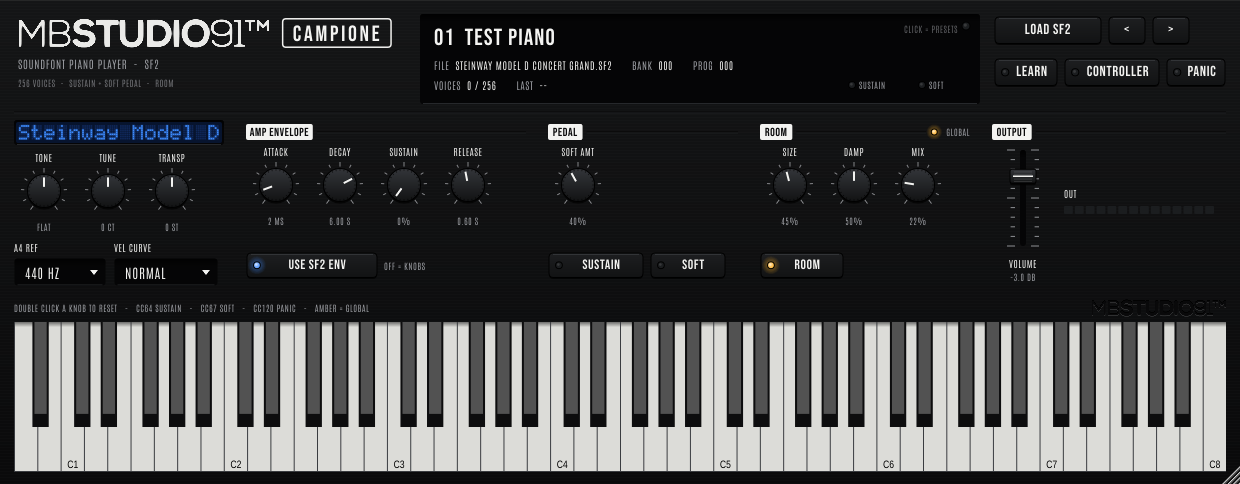
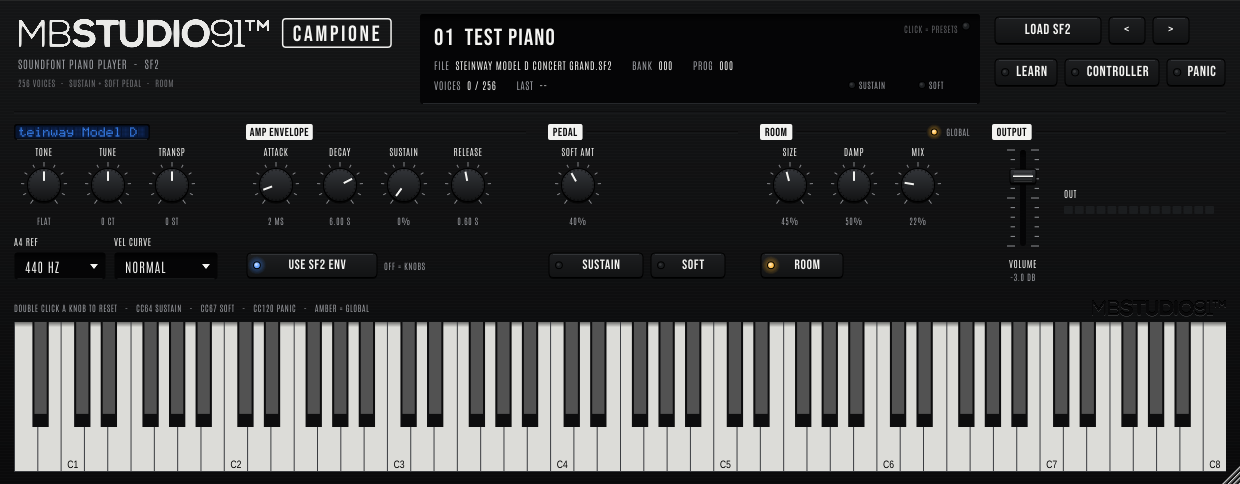
LCD alto come i titoli-chip: caratteri di 9 px come AMP ENVELOPE
- display 136 x 16 px allineato ai chip delle sezioni, passo dei punti 1,32 px
- i controlli del pianoforte tornano alla stessa riga delle altre sezioni

Claude-Session: https://claude.ai/code/session_01WmqijEuPBkdoT6P6tGhM7M

diff --git a/Source/PluginEditor.cpp b/Source/PluginEditor.cpp
@@ -9,7 +9,8 @@ namespace
 {
 constexpr int margin = 14, lineY = 112, chipY = 124, cellY = 144, cellH = 88, knobW = 60, step = 64;
 constexpr int row2LabelY = 236, row2Y = 252, row2H = 28, footerY = 300, keyboardY = 322;
-constexpr int lcdY = 120, lcdH = 25, lcdW = 210, pianoShift = 6;    // in alto a sinistra il display LCD a matrice
+constexpr int lcdY = chipY, lcdH = 16, lcdW = 136, pianoShift = 0;   // display LCD a matrice, alto come i titoli-chip
+constexpr float lcdPitch = 1.32f;                                    // passo dei punti: caratteri alti 9 px come il testo dei chip
 constexpr int pianoCellY = cellY + pianoShift, pianoRow2Y = row2Y + pianoShift;
 const juce::Colour lcdGlass (0xff07142e), lcdDotOff (0xff10285a);   // punti accesi: blu LED (colours::ledBlue)
 
@@ -417,14 +418,14 @@ void CampionePanel::paintLcd (juce::Graphics& g)
     // cornice incassata, vetro blu scuro, 16 caratteri a matrice 5x7: punti spenti blu scuro, accesi blu LED
     const auto outer = lcdArea.toFloat();
     ui::paintRecess (g, outer);
-    const auto glass = outer.reduced (2.f);
+    const auto glass = outer.reduced (1.5f);
     g.setColour (lcdGlass);
     g.fillRoundedRectangle (glass, 2.f);
 
     const juce::String loop = lcdText.length() > lcdChars ? lcdText + "    " : lcdText;
-    const float pitch = juce::jmin ((glass.getWidth() - 6.f) / (float) (lcdChars * 6 - 1), (glass.getHeight() - 4.f) / 7.f);
+    const float pitch = lcdPitch;
     const float dot = pitch * .8f;
-    const float textW = pitch * (float) (lcdChars * 6 - 1), textH = pitch * 7.f;
+    const float textW = pitch * (float) (lcdChars * 6 - 1), textH = pitch * 6.f + dot;
     const float x0 = glass.getCentreX() - textW * .5f, y0 = glass.getCentreY() - textH * .5f;
     const auto glow = C::ledBlue.withAlpha (.3f);
     for (int i = 0; i < lcdChars; ++i)
